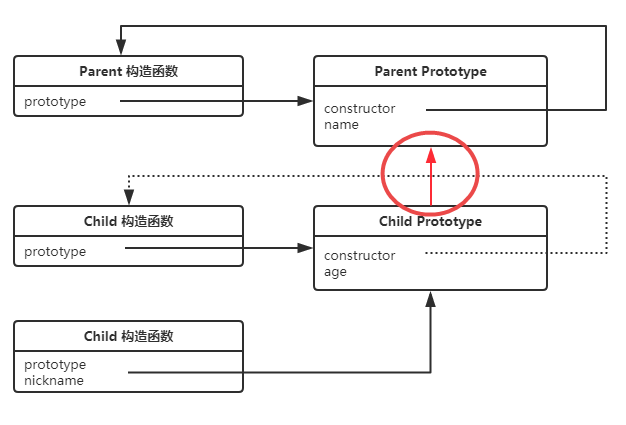
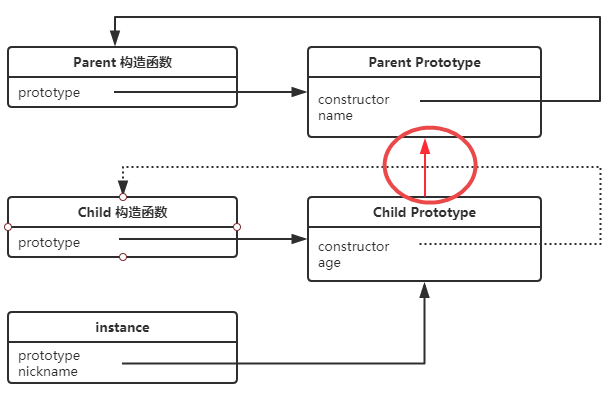
update #extend

Changed region(s): [[0.0, 0.03, 0.987, 0.96]]

diff --git a/read_note/js_base_extend.md b/read_note/js_base_extend.md
@@ -1,4 +1,100 @@
 ---
 js基础--面向对象 4.几种继承方式
 ---
+# 原型链继承
+## 原理
+````js
+function Parent(){}
+Parent.prototype.name = 'parent';
 
+function Child(){}
+Child.prototype = new Parent();
+Child.prototype.age = '11';
+
+var instance = new Child();
+instance.age//11
+instance.name//parent
+````
+原型之间的引用如下：
+![extend_proto](https://github.com/eminoda/myBlog/blob/master/imgs/js_base/extend_proto.png?raw=true)
+
+
+大致原理：
+Parent构造函数有个原型对象，Child构造函数同样也有个，只是将 **Child的原型对象指向Parent的实例**（如：虚线改为红色线），其实就是重写Child的原型引用，之后再定义Child.prototype属性，这样instance就包含Child prototype属性和 **Parent原型的引用**。
+![extend](https://github.com/eminoda/myBlog/blob/master/imgs/js_base/extend.png?raw=true)
+
+## 确定原型和实例的关系
+1. instanceof
+````js
+instance instanceof Object; //true
+instance instanceof Parent; //true
+instance instanceof Child; //true
+````
+
+2. isPrototypeOf
+判断实例原型是否是某对象原型的一部分
+````js
+Object.prototype.isPrototypeOf(instance);//true
+Parent.prototype.isPrototypeOf(instance);//true
+Child.prototype.isPrototypeOf(instance);//true
+````
+
+## 缺点
+缺点依旧是原型的优点 共享特性 导致，如果定义的父类包含数组等引用类型，不同的子类实例还是会互相污染。
+````js
+function Parent(){
+  this.books = ['parent']
+}
+
+function Child(){}
+Child.prototype = new Parent();
+
+var instance1 = new Child();
+instance1.books.push('instance1')
+
+var instance2 = new Child();
+console.log(instance2.books);//["parent", "instance1"]
+````
+
+# 借用构造函数
+**借用 call、apply** 重新创建函数执行环境，这样就会重新使用Parent，避免了共享的污染问题。
+````js
+function Parent(){
+  this.books = ['parent']
+}
+
+function Child(){
+  Parent.call(this);
+}
+Child.prototype = new Parent();
+
+var instance1 = new Child();
+instance1.books.push('instance1')
+
+var instance2 = new Child();
+console.log(instance2.books);//["parent"]
+````
+
+缺点：对复用性无从谈起。
+
+# 组合继承
+原型链继承+借用构造函数，取长补短。
+````js
+function Parent(name){
+  this.name = name;
+  this.books = ['parent']
+}
+
+function Child(name,nickName){
+  Parent.call(this,name);
+  this.nickName = nickName;
+}
+Child.prototype = new Parent();
+
+var instance1 = new Child('aa','bb');
+instance1.books.push('instance1');
+console.log(instance1);//{name: "aa", books: Array(2), nickName: "bb"}
+
+var instance2 = new Child();
+console.log(instance2.books);//["parent"]
+````
